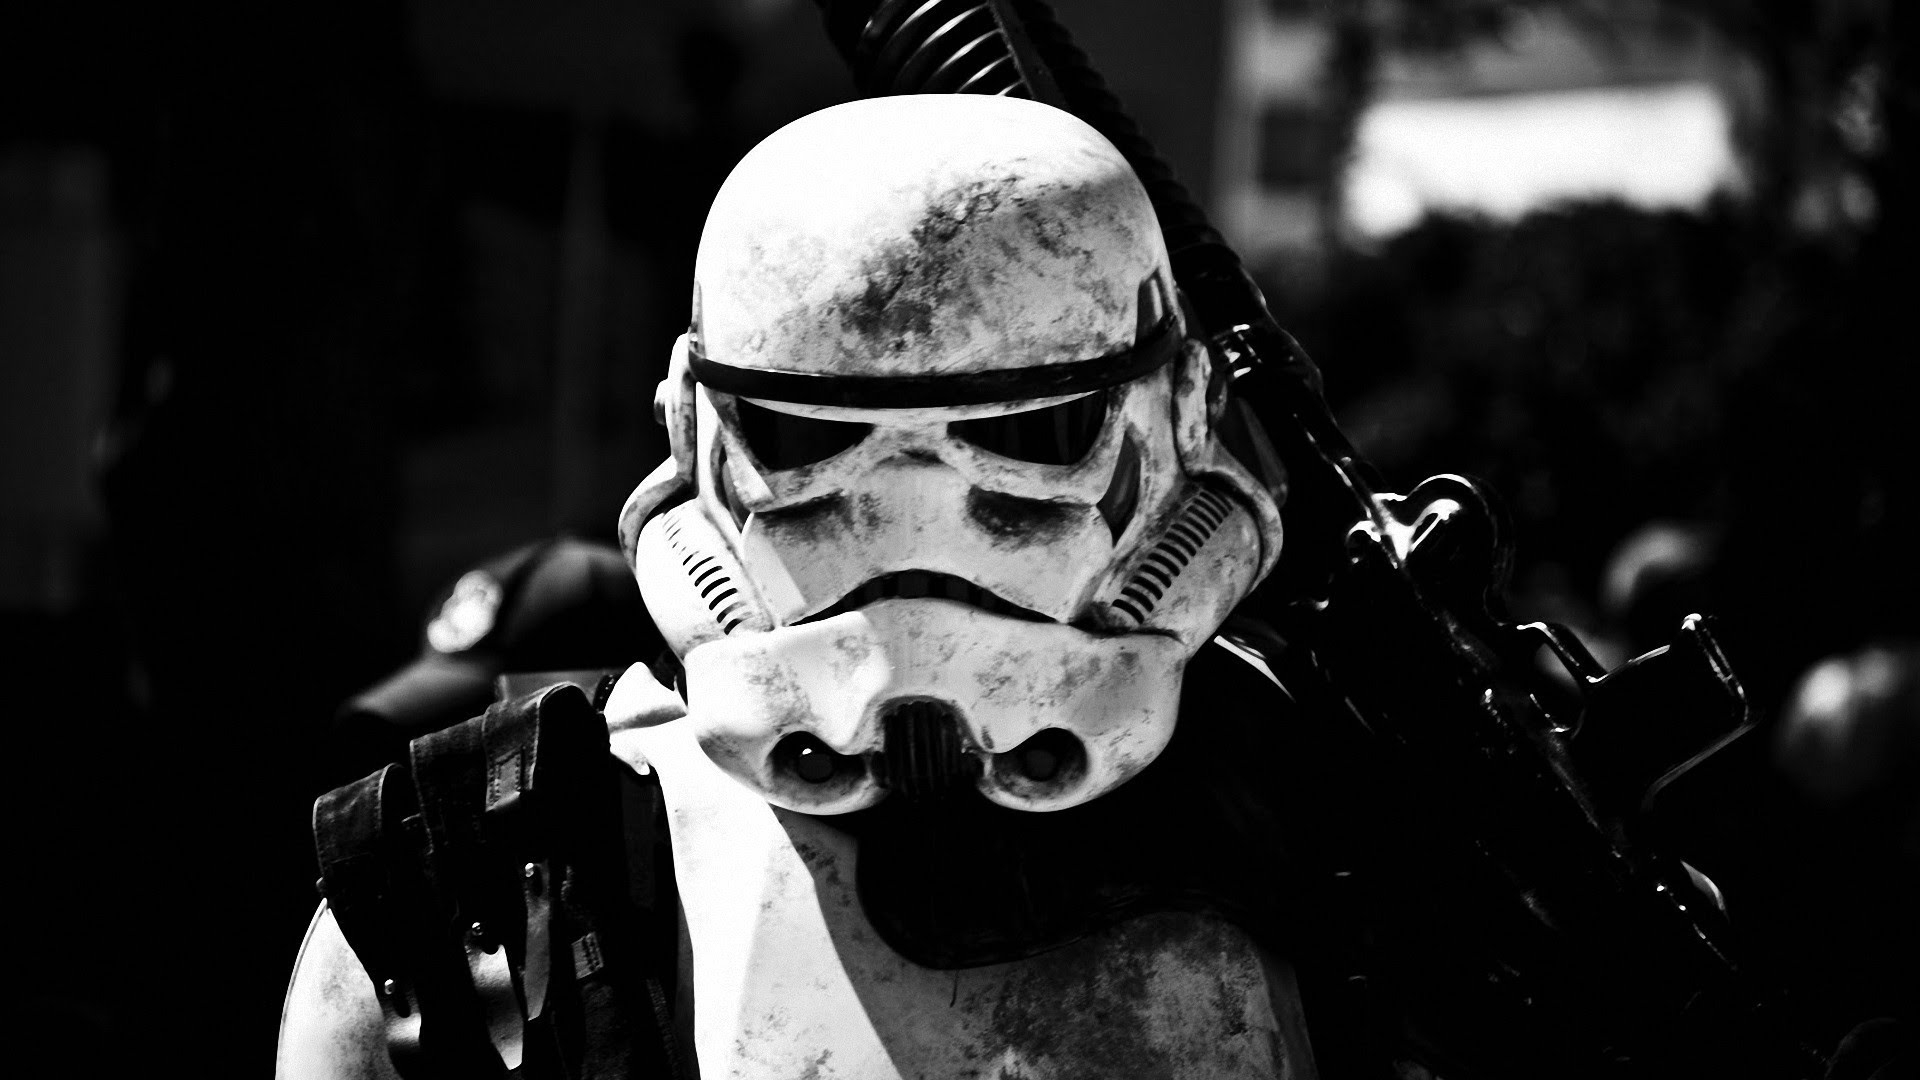
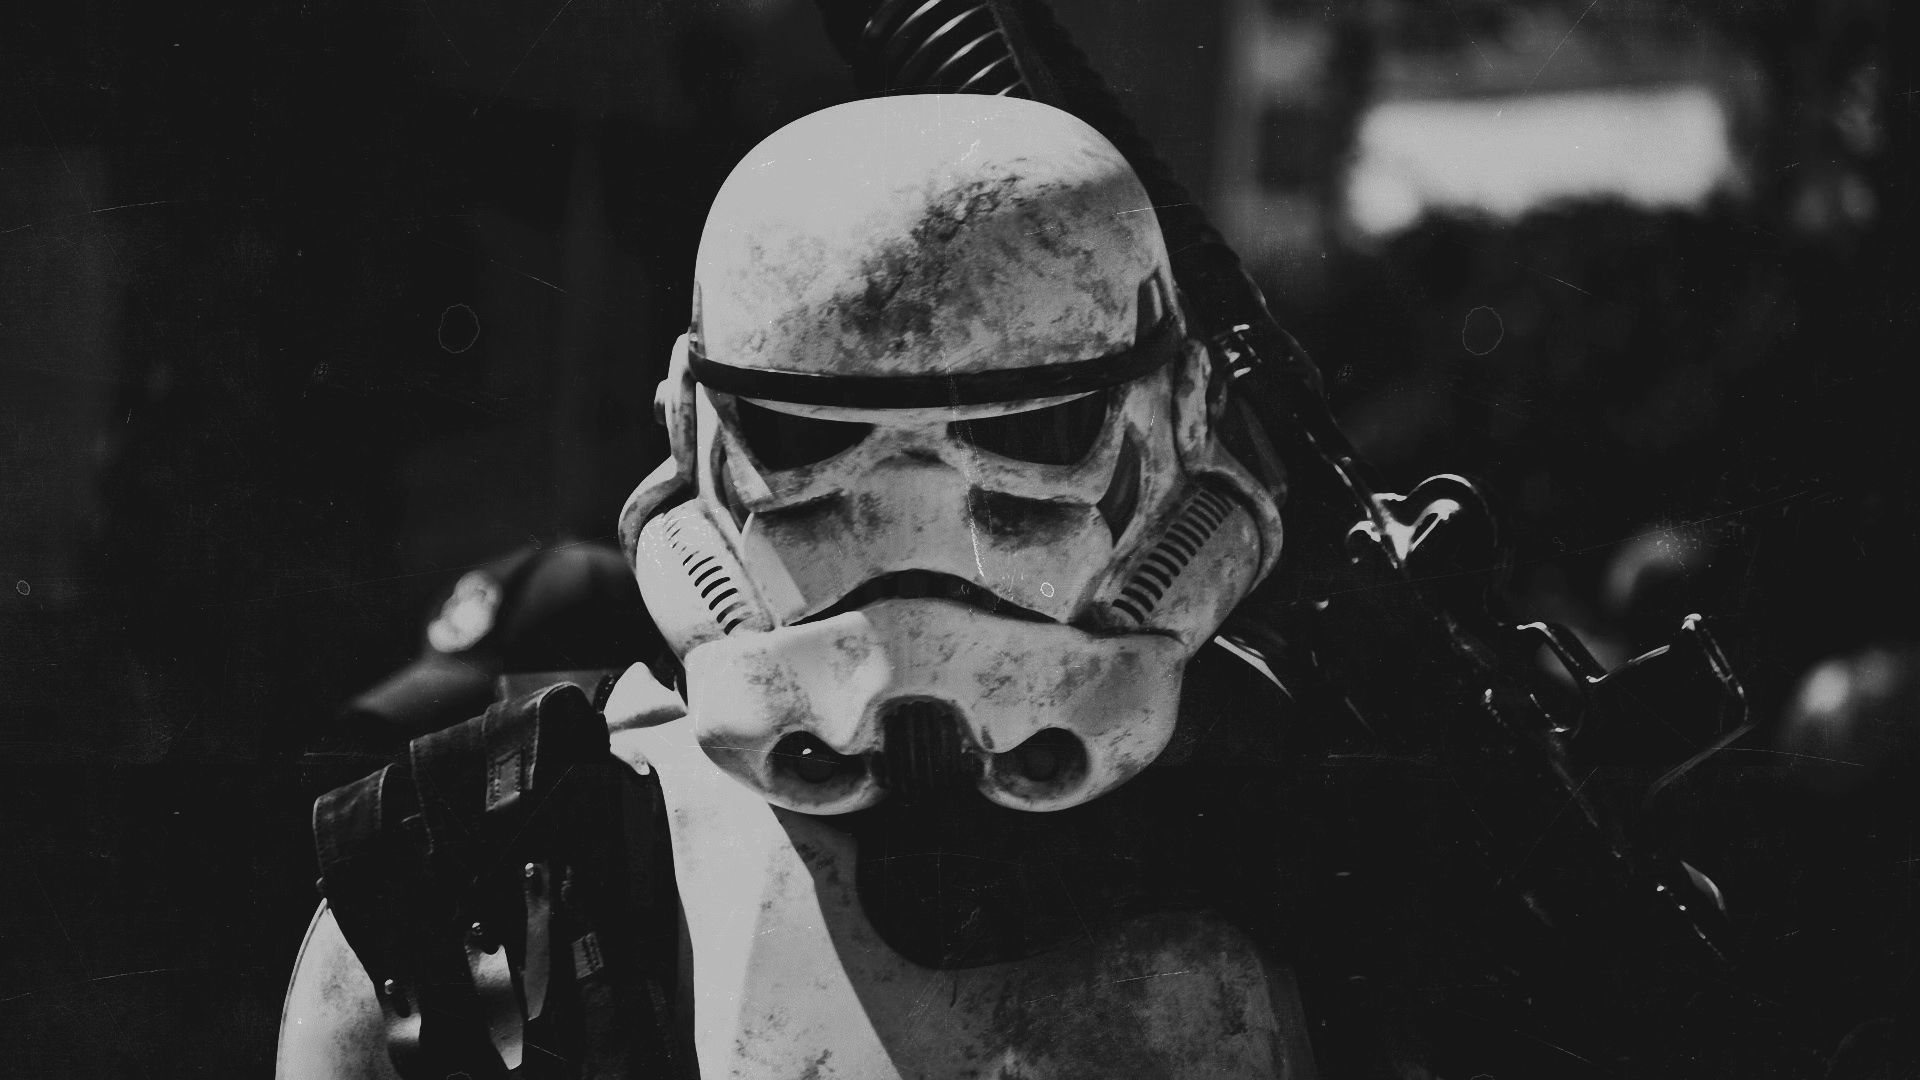
004 - Novo background do Header e Texto com css

diff --git a/clone-web/clone-app/src/app/app.component.css b/clone-web/clone-app/src/app/app.component.css
@@ -37,13 +37,14 @@
     text-align: center;
     color: #fff;
     background-attachment: scroll;
-    background-image: url('/assets/headerbg.jpg');
+    background-image: url('/assets/headerbg1.jpg');
     background-position: center center;
     background-repeat: none;
     -webkit-background-size: cover;
     -moz-background-size: cover;
     background-size: cover;
     -o-background-size: cover;
+    text-shadow: 2px -1px 0px rgba(0, 0, 0, 0.4);
 }
 
 body {

diff --git a/clone-web/clone-app/src/app/app.component.html b/clone-web/clone-app/src/app/app.component.html
@@ -18,8 +18,8 @@
   </div>
 </nav>
 <div class="jumbotron text-center vertical-center">
-    <h1>My First Bootstrap Page</h1>
-    <p>Resize this responsive page to see the effect!</p> 
+    <h1>Welcome to the Clone Generator Central</h1>
+    <p>Come and generate your clones and collect them at the end.</p> 
 </div>
 <div class="container">
     <div class="row">
